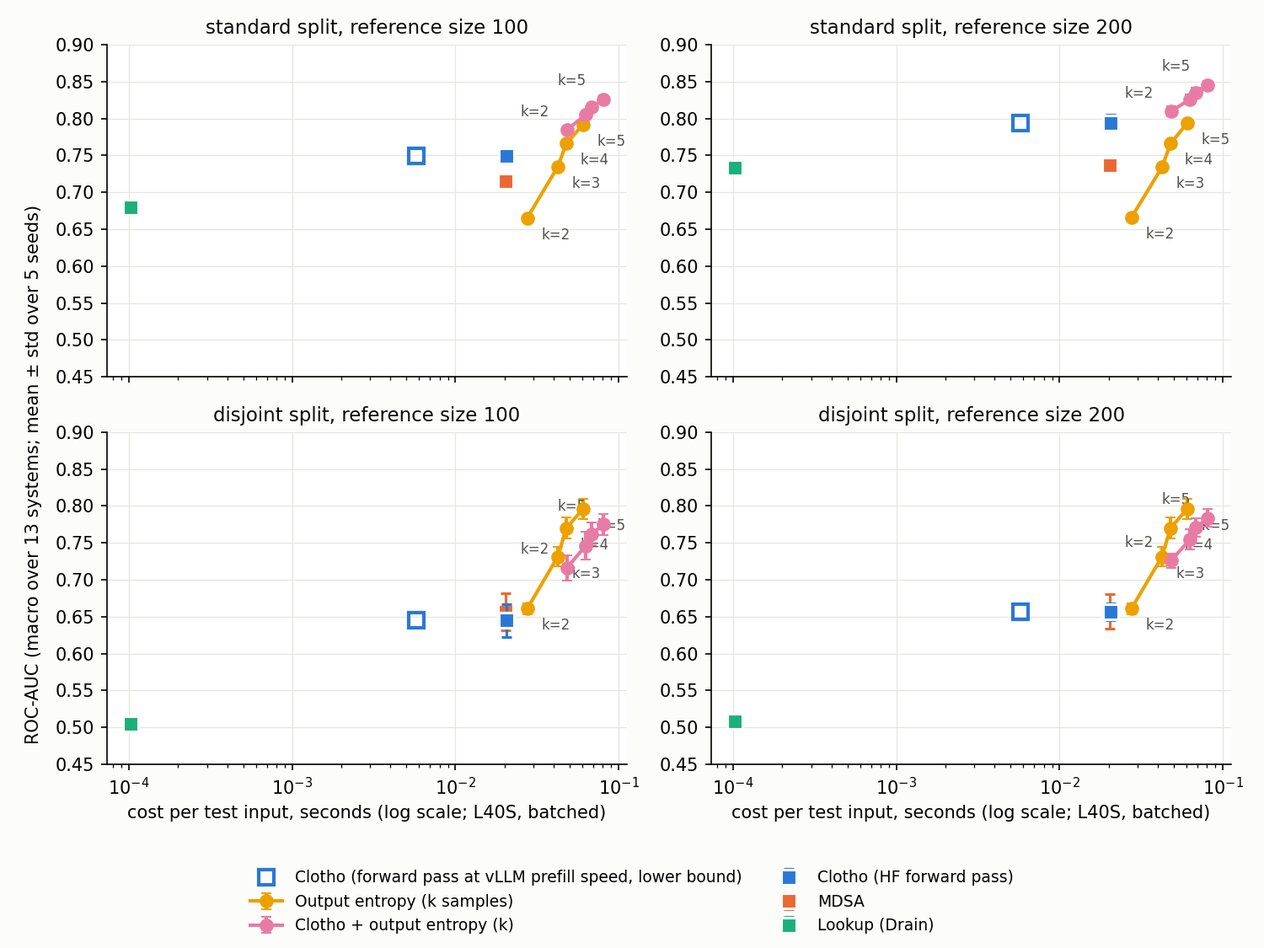
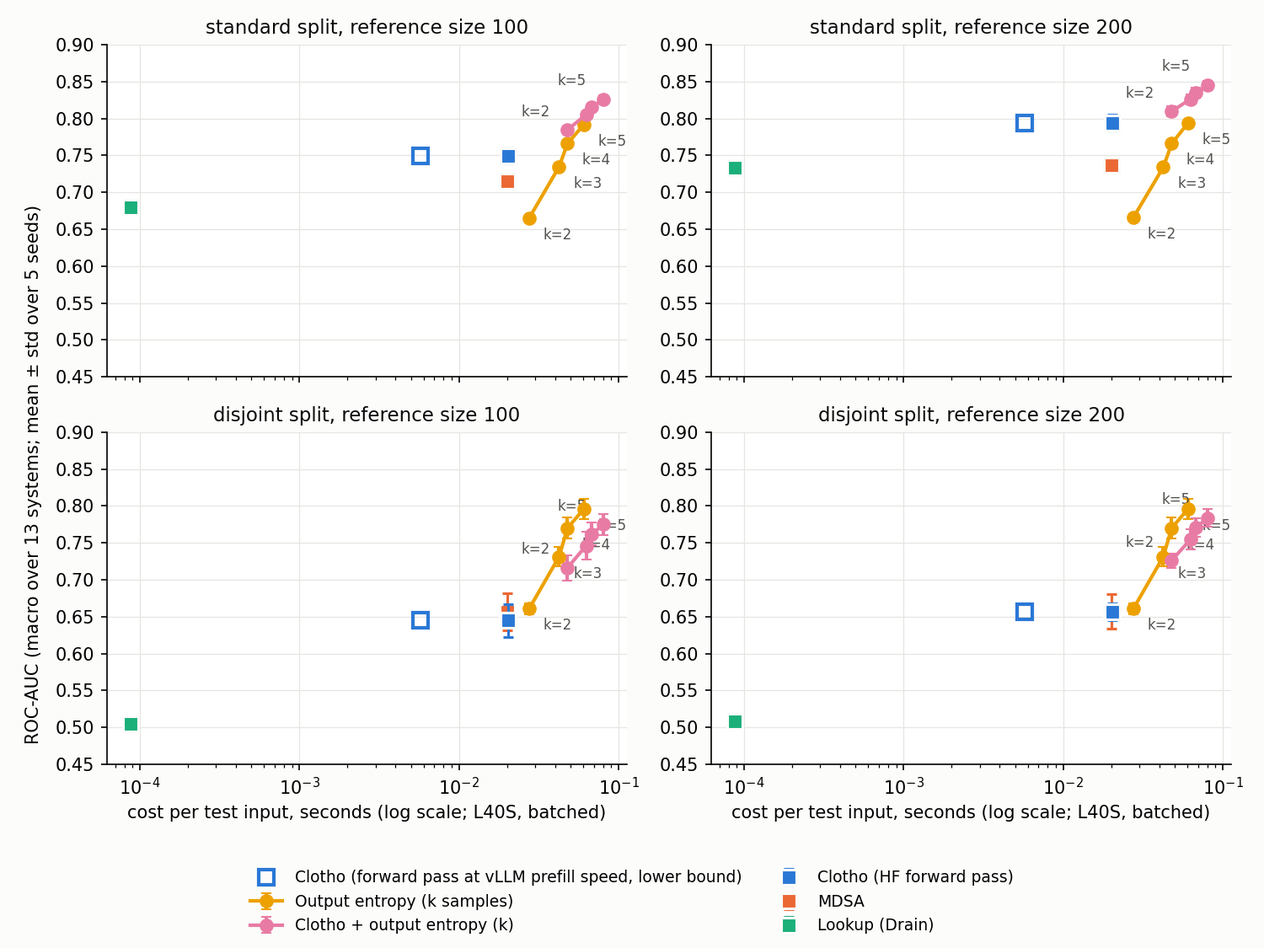
PROGRESS: session summary, 5 findings, label-noise paragraph, decisions, Next with Gemma estimate; AGENTS repo map; cost report from the idle-machine timing rerun

diff --git a/experiments/log_parsing_paper_numbers.py b/experiments/log_parsing_paper_numbers.py
@@ -38,7 +38,7 @@ READ = {
     "cost": ("Reading: output entropy needs 4 samples to match Clotho at reference size 100 on the standard split "
              "(5 samples only tie it at 200; on the template-disjoint split 2 samples already tie it and 3 beat it by "
              "about +0.08). Generating 4 samples costs "
-             "2.3x Clotho's batched HF forward pass, 8.3x a vLLM prefill (the same engine), and 35x online (batch 1). "
+             "2.4x Clotho's batched HF forward pass, 8.3x a vLLM prefill (the same engine), and 36x online (batch 1). "
              "Clotho + output entropy (k=5) is the best score at about 4x Clotho's batched cost."),
     "cross": ("Reading: across systems Clotho (0.624 / 0.641, mean over pairs) and MDSA (0.634 / 0.618) are both "
               "well above chance but far below within-system (e.g. Spark -> HDFS 0.692 vs 0.873 within HDFS @200); "

diff --git a/PROGRESS.md b/PROGRESS.md
@@ -1,6 +1,19 @@
 # PROGRESS
 
-Last updated: 2026-11-07
+Last updated: 2026-11-08
+
+**Summary (2026-11-08 session): numbers for the paper.** Single source: `experiments/reports/paper_numbers.md`, generated by `experiments/log_parsing_paper_numbers.py` (main table, held-out table, fairness check, cost-quality table and plot, cross-system, leakage, label noise, natural distribution, each with its script). Main setting fair_leakfree. Every number is mean ± std over 5 seeds of the per-seed macro mean over systems. **Git push was impossible on this machine (no GitHub credentials).** Commits are local, and a bundle of `main` is in RESULTS_REPO `git_bundles/clotho_main.bundle`; see Next.
+
+Five findings that changed or were confirmed this session:
+1. Cost is Clotho's real advantage over output entropy, and it is modest offline: output entropy needs 4 samples to match Clotho on the standard split @100 (5 only tie it @200, and on the disjoint split 2 already tie it). 4 samples cost 2.4x Clotho's batched HF forward pass, 8.3x a same-engine vLLM prefill, and 36x online (batch 1) on the L40S.
+2. Changed: on naturally distributed log lines (uniform samples, 4 systems) Clotho's lead over a Drain lookup vanishes (+0.000 ± 0.021 @100, -0.012 ± 0.008 @200, vs +0.101 / +0.065 on the template-capped suites), while Clotho now beats output entropy by about 0.1 (0.899 / 0.910 vs 0.812 / 0.801).
+3. Confirmed: Clotho beats MDSA and Lookup (Drain) on the standard split on every seed, both on the 10 systems not used for layer tuning (+0.042 / +0.057 and +0.061 / +0.063) and when the baselines get random instead of Clotho-chosen reference sets (smallest per-seed gap +0.014); on the disjoint split Clotho and MDSA still tie.
+4. New: near-chance within-template AUC is mostly label noise on a small real signal. 95-99% of the reliable pass-rate variance lies between templates, and against a clean 40-sample label Clotho's within-template AUC rises from 0.555 to 0.609 @100 (ceiling 0.698), while MDSA stays at 0.557.
+5. Confirmed in code: the original Clotho protocol computes pass labels and all four post-generation metrics from the same 10 generations (`2-1_...py:170-219`, `RQ/analysis_utils.py:110-133`, `:441-521`); in our setting that leakage is worth +0.125 / +0.132 AUC for output entropy and +0.067 / +0.070 for LOHSvar.
+
+Also this session: cross-system transfer under fair_leakfree puts Clotho (0.624 / 0.641, mean over 5 pairs) level with MDSA (0.634 / 0.618; sign flips between @100 and @200), far below within-system, with both lookups at chance (`reports/log_parsing_cross_fair.md`). Qualitative examples: `reports/log_parsing_qualitative.md` (most of Clotho's top-10% misses are borderline inputs with 2 of 5 label samples correct).
+
+## Phase 3 final summary (2026-11-07)
 
 **Summary: Phase 3 final** (`experiments/reports/log_parsing_phase3_final.md`; fail-top-50 counts and per-system tables are there). Setting fair_leakfree: Clotho = paper method (balanced sampling), layer 16 for every hidden-state method, label from samples 5-9 (PASS if >= 3 of 5 strict matches), post-generation scores from samples 0-4. rules_template, strict_match, 13 systems, no disjoint split skipped. Cells: ROC-AUC, mean ± std over 5 seeds of the per-seed macro mean over systems; reference size includes the 10 initial tests.
 
@@ -21,7 +34,7 @@ Last updated: 2026-11-07
 | Hybrid | 0.757 ± 0.009 | 0.802 ± 0.009 | 0.648 ± 0.022 | 0.661 ± 0.012 |
 | Random | 0.504 ± 0.004 | 0.506 ± 0.010 | 0.502 ± 0.013 | 0.511 ± 0.019 |
 
-Leakage (fair_leaky minus fair_leakfree, standard, @100 / @200): methods that never see generations shift +0.026 / +0.014 (noisier 5-sample label). Net of that, the post-generation methods lose output entropy +0.123 / +0.140, LOHSvar +0.065 / +0.078, Sem-Ent +0.037 / +0.046, Tok-Prob +0.006 / +0.019, Tok-Ent 0.000 / +0.010.
+Leakage (fair_leaky minus fair_leakfree, standard, @100 / @200; corrected 2026-11-08 from the regenerated `log_parsing_phase3_final.md`, which the earlier line here did not match): methods that never see generations shift +0.024 / +0.021 (noisier 5-sample label). Net of that, the post-generation methods lose output entropy +0.125 / +0.132, LOHSvar +0.067 / +0.070, Sem-Ent +0.040 / +0.038, Tok-Prob +0.009 / +0.011, Tok-Ent +0.003 / +0.003.
 
 Findings (paired per-seed differences, mean ± std over 5 seeds):
 1. Clotho beats Lookup (Drain) on every seed: by +0.069 ± 0.014 / +0.061 ± 0.011 on the standard split (@100 / @200), and by +0.140 / +0.149 on the template-disjoint split, where every lookup falls to chance.
@@ -41,14 +54,35 @@ Deviations from the paper: Sem-Ent NLI runs in bf16 autocast (99.5% pairwise lab
 
 - Phase 2 setup (user decisions 2026-11-07: both prompts, all 14 systems x 500, Clotho per system): 14 suites in `clotho/dataset/log_parsing/`, `rules_template`, parser fix for literal `*` runs, scripts `run_log_parsing_all.py`, `log_parsing_initial_set.py`, `run_clotho_log_parsing.py`, `log_parsing_phase2_report.py`.
 
+- 2026-11-08 session (all stages of the paper-numbers plan): label-noise experiment finished; original-protocol leakage answered from code; baseline fairness (random reference sets); held-out table; cost vs quality with L40S timings; cross-system under fair_leakfree; qualitative examples; natural-distribution check (4 systems); paper_numbers.md. New scripts: `log_parsing_heldout.py`, `log_parsing_fairness.py`, `log_parsing_timing.py`, `log_parsing_cost_quality.py`, `log_parsing_cross_fair.py`, `log_parsing_qualitative.py`, `log_parsing_natural.py`, `log_parsing_paper_numbers.py`, `sharded/git_backup.py`.
+
 ## In progress
-- Label-noise experiment (started 2026-11-07 20:42): 40 extra samples per input, all 13 systems (`.venv-vllm/bin/python experiments/log_parsing_extra_samples.py --push`, log `logs/extra_samples.log`, ~2.5 min per system). It is resumable per system, and finished systems are uploaded to RESULTS_REPO `data/results_llama/log_parsing/extra_samples/`. When it finishes, run `cd experiments && python log_parsing_label_noise.py --push` and record the result.
-- Early evidence from the existing 10 samples: split-half (0-4 vs 5-9) agreement of per-input pass counts is r = 0.50 to 0.85 overall but about 0.0 to 0.2 within a template (HPC 0.45, OpenSSH 0.30). Most within-template label variation is sampling noise at 5 samples.
+- Nothing running.
 
 ## Next
-- Decided: no scaling to 2,000 inputs per system. The cost estimate below is kept for reference only.
-- The CPU follow-ups are done (section "Phase 3 follow-ups" below). Open question being answered by the label-noise experiment (In progress): is the near-chance within-template AUC a missing signal or label noise?
-- Write-up: the table and findings above are the Phase 3 result.
+- **Push git.** This machine had no GitHub credentials. All commits of 2026-11-08 are local, plus a bundle in RESULTS_REPO `git_bundles/clotho_main.bundle`. On the next machine: clone the fork, `hf download` the bundle from RESULTS_REPO, `git fetch <bundle> main:bundle_main && git merge --ff-only bundle_main`, then `git push` (after `gh auth login && gh auth setup-git`).
+- Write-up: `experiments/reports/paper_numbers.md` is the single source of numbers. Regenerate it with `python log_parsing_paper_numbers.py` after any rerun.
+- **Second model estimate (Stage 9, not run): google/gemma-2-9b-it, as in the Clotho paper.** Scaled from rates measured on this L40S for Llama-3.1-8B. Gemma-2-9B has 9.2 B parameters and 42 layers (vs 32); its 256 k vocabulary makes the full-vocab entropy and lm_head in post-gen about 2x heavier. Assume about 1.3x Llama time for forward/generation and 1.5-2x for post-gen.
+
+| step | Llama rate measured | Gemma estimate (13 systems x 500 + initial set) |
+|---|---|---|
+| Engineering: Gemma path in `prompt_render.py` (system prompt inlined into the user turn as `clotho/models/gemma.py:inline_system_as_user` does; `<start_of_turn>model` post-processing), HF/vLLM parity check, model switch in `log_parsing_phase3_lib`/`_final` (MODEL, initial-set dir, layer list), check vLLM Gemma-2 support (logit soft-capping) under the no-nvcc constraint | n/a | 1.5-2.5 h agent time, no GPU |
+| Model download (18.5 GB) | 16 GB in 14 s | ~1 min |
+| Initial set (10 inputs: hidden + 10 samples) | minutes | ~5 min |
+| Hidden states, 4 candidate layers (e.g. 14/21/28/35) in one pass | ~20 inputs/s (batch 1) | ~8 min |
+| gen_vllm, 10 samples | 50-75 s per 500 inputs + 45 s engine start | ~25 min |
+| Rescore + recheck the scorer/template decision (PASS rates must stay in 10-90%, Gemma may need its own system drops) | CPU | ~10 min + decision |
+| SLL | ~20 inputs/s | ~7 min (or fuse into the hidden pass) |
+| Layer tuning (HDFS, Spark, Linux; CPU) | ~10 min | ~10 min |
+| Phase 3 final jobs (fair_leakfree + fair_leaky, 260 jobs; CPU) | 390 jobs in 11 min | ~10 min |
+| Post-gen without SE | 2.1 inputs/s | ~1.3-1.7 h |
+| Semantic entropy (DeBERTa, beside post-gen) | 1.64 inputs/s beside | runs within the post-gen window (+~15 min) |
+| Follow-ups, fairness, held-out, cross, cost-quality jobs (CPU) + timing (GPU) | ~25 min + 25 min this session | ~50 min |
+| Optional: label noise, 40 extra samples | 3.7 min per system | ~1.1 h |
+| Optional: natural-distribution check (4 systems) | ~35 min this session | ~45 min |
+
+- Total: about 3.5-4 GPU-hours plus 2 h engineering for the core comparison (main table, held-out, fairness, cost-quality, cross-system). Add ~2 h for both optional parts. One 10 h session fits the core plus one optional part, including setup (3 min) and pushes. The risky item is vLLM's Gemma-2 support without FlashInfer: if it fails, generate with HF (`gen_hf`, about 10x slower: ~4 h for 10 samples), which would need a second session.
+- Decided earlier: no scaling to 2,000 inputs per system (the cost estimate is kept below for reference).
 
 ## Phase 3 follow-ups (2026-11-07): combinations, Clotho vs MDSA on disjoint, within-template AUC
 `experiments/reports/log_parsing_followups.md` (`log_parsing_followups.py`; main setting fair_leakfree, 5 seeds, CPU only, ~1.5 min). Clotho was recomputed exactly (max |diff| 0); MDSA within 4.3e-4 of the stored jobs.
@@ -128,6 +162,23 @@ Report: `experiments/reports/log_parsing_phase3_final.{md,json}`. Driver: `exper
 - "Keep current 500" means a 1,500-message extension disjoint from the current suite. The stratified sampler does not nest (a 2,000 sample would not contain today's 500), so the extension follows a different template mix. A fresh 2,000 sample is cleaner but regenerates everything.
 - Mac (626 templates) and Thunderbird (1,241) would get every template at 2,000, with ~3 and ~1.6 inputs per template. Templates would repeat in the reference set, which raises the AUC of template-based signals (see "Why Thunderbird is weak").
 
+## Decisions (2026-11-08 session: paper-numbers stages 1-9)
+- **Git push unavailable.** No GitHub credentials on this machine (no gh, SSH key or credential helper), and installing gh was blocked. Commits stay local, and after each step the whole history goes to RESULTS_REPO as a bundle (`experiments/sharded/git_backup.py` -> `git_bundles/clotho_main.bundle`). Restore: download it, then `git fetch clotho_main.bundle main:bundle_main` and fast-forward `main`. Every result file also went to RESULTS_REPO by `--push`.
+- Stage 2: the answer is from upstream `coinse/clotho` at commit `e8aed3d` (added as remote `upstream`). The RQ notebooks/analysis_utils are counted as the protocol, since they produce the paper's tables.
+- Stage 3: on the standard split a random reference set overlaps Clotho's test set. So every method in the fairness report is scored on T' = Clotho's test set minus the random reference inputs (Clotho restricted to T'), and the balanced-reference baselines are re-scored on T' too. Random reference = 10 initial tests + uniform draw from the same pool, `RandomState(seed + 7777 + ref)`. GMMb and Lookup (oracle) are included as well as MDSA and Lookup (Drain).
+- Stage 4: "main table" = the 14 fair_leakfree methods + Clotho + output entropy; no system is skipped under fair_leakfree (HPC disjoint runs under this label).
+- Stage 5: cost = offline batch cost per test input, the cheapest practical implementation of each method. Clotho/MDSA = HF forward pass through layers 1-16 only (batch 32, left padded; cosine >= 0.9995 to the stored vectors) + CPU scoring; output entropy = vLLM, all 500 prompts at once, n = k. This uses the optimised engine for generation but plain HF for Clotho, so it understates Clotho's cost advantage. Batch-1 latencies are reported beside it. Timings: mean over HDFS, Hadoop, BGL, OpenStack. One-off costs (reference labels, fitting) excluded. k = 1 left out (entropy of one sample is 0). Clotho + output entropy is shown at every k. "Matches Clotho" = smallest k whose mean AUC >= Clotho's.
+- Stage 6: Lookup (Drain) across systems uses each system's own Drain run. logparser's EventId is the md5 of the template text, so a group matches only on identical template text.
+- Stage 7: fixed before looking: seed 0, standard split, ref 100. Missed = the 5 highest-ranked failures within the top 10%. Caught = 5 drawn at random from the failures in the bottom 30%. HDFS has only 3 failures in its top 10%, so 3 are shown.
+- Stage 8: "uniformly at random from the raw logs" = uniform over log lines of `<System>_full.log_structured.csv`, excluding lines whose Content is in the current suite, with no dedup (natural repetition kept), seed 4242. Systems are skipped if < 15 PASS or < 15 FAIL. The natural suites are not registered in `supported_datasets` (Phase 3 scripts derive their system list from it).
+- Stage 1 paragraph: the noisy-label comparison is on the same systems and test sets (added as section 3 of the label-noise report).
+- The Phase 3 leakage line in this file did not match `log_parsing_phase3_final.md`, which regenerates byte-identical from the stored jobs. The line now quotes the report.
+- Timing: `log_parsing_timing.py hf` was run twice. The first run overlapped the label-noise CPU jobs and is kept as `results_phase3/timing/hf_run1_contended.json`; the reported numbers come from the second run, on an otherwise idle machine.
+
+## Label noise (2026-11-08): is near-chance within-template AUC missing signal or label noise?
+`experiments/reports/log_parsing_label_noise.md` (`log_parsing_extra_samples.py`: 40 new vLLM samples per input, engine seed 1; `log_parsing_label_noise.py`).
+Mostly label noise, on top of a small real signal. An input's pass rate is very reliable overall (40-sample reliability median 0.97), but 95-99% of that reliable variance lies between templates on 11 of 13 systems (Mac and Thunderbird trivially; HPC 0.80, OpenSSH 0.86). Within a template, even the 40-sample rate has median reliability 0.56, so the 5-sample label used for within-template AUC is mostly sampling noise. Against the clean 40-sample label, on the same 7 systems and test sets, within-template AUC rises: Clotho 0.555 -> 0.609 @100 (0.524 -> 0.571 @200), output entropy 0.529 -> 0.584, LOHSvar 0.545 -> 0.562, while MDSA stays at 0.557. A perfect predictor of the original 10-sample pass rate reaches only 0.698 within template. So Clotho does carry some within-template signal, but it is small next to the between-template signal it shares with template lookup (overall AUC 0.832 against the clean label on the same systems).
+
 ## Decisions (2026-11-07: scorer, template, dropped systems)
 
 Inputs: all 28 generations (2 templates x 14 systems x 500 inputs x 10 samples), rescored without regeneration by `experiments/log_parsing_rescore.py` (report: `experiments/reports/log_parsing_rescore.md`, also in RESULTS_REPO `reports/`).
@@ -202,6 +253,7 @@ Why Thunderbird is weak (checked 2026-11-07). Its strict failures are real model
 Clotho's GMM models passing inputs. When every input is a different event type, the passing inputs do not cluster, so separation weakens. Read high AUC on low-diversity systems partly as "this template is easy or hard" signal.
 
 ## Known issues
+- 2026-11-08 machine had no GitHub credentials and no `gh`, and installing `gh` from GitHub releases was blocked by the agent's permission classifier. The user has to run `gh auth login` (or provide credentials) before an agent session can push.
 - A fully skipped `gen_vllm` run still runs the parity check and loads the vLLM engine (~45 s) before noticing nothing is pending.
 - RESULTS_REPO has extra verification shards under `.../size200/` (spell_check, shards 0 and 1). Harmless.
 - New machine needs `gh auth login` then `gh auth setup-git` before git push works.

diff --git a/experiments/reports/paper_numbers.md b/experiments/reports/paper_numbers.md
@@ -96,24 +96,24 @@ Scripts: `log_parsing_timing.py hf|vllm` (timings, `results_phase3/timing/`), `l
 
 | method | s / input (batched) | s / input (batch 1) | standard @100 | standard @200 | disjoint @100 | disjoint @200 |
 |---|---|---|---|---|---|---|
-| Clotho | 0.0206 | 0.0420 | 0.749 ± 0.010 | 0.794 ± 0.011 | 0.645 ± 0.022 | 0.657 ± 0.012 |
+| Clotho | 0.0202 | 0.0414 | 0.749 ± 0.010 | 0.794 ± 0.011 | 0.645 ± 0.022 | 0.657 ± 0.012 |
 | Clotho, forward pass at vLLM prefill speed (lower bound) | 0.0058 | n/a | 0.749 ± 0.010 | 0.794 ± 0.011 | 0.645 ± 0.022 | 0.657 ± 0.012 |
-| MDSA | 0.0203 | 0.0417 | 0.715 ± 0.008 | 0.737 ± 0.006 | 0.656 ± 0.025 | 0.657 ± 0.023 |
+| MDSA | 0.0200 | 0.0411 | 0.715 ± 0.008 | 0.737 ± 0.006 | 0.656 ± 0.025 | 0.657 ± 0.023 |
 | Lookup (Drain) | 0.0001 | 0.0001 | 0.680 ± 0.006 | 0.733 ± 0.005 | 0.505 ± 0.005 | 0.508 ± 0.003 |
 | Output entropy, k=2 | 0.0275 | 1.3200 | 0.665 ± 0.002 | 0.666 ± 0.004 | 0.661 ± 0.008 | 0.661 ± 0.008 |
 | Output entropy, k=3 | 0.0424 | 1.4315 | 0.734 ± 0.002 | 0.734 ± 0.003 | 0.731 ± 0.013 | 0.731 ± 0.013 |
 | Output entropy, k=4 | 0.0478 | 1.4711 | 0.766 ± 0.001 | 0.766 ± 0.005 | 0.770 ± 0.014 | 0.770 ± 0.014 |
 | Output entropy, k=5 | 0.0604 | 1.5502 | 0.792 ± 0.001 | 0.794 ± 0.005 | 0.796 ± 0.014 | 0.796 ± 0.014 |
-| Clotho + output entropy, k=2 | 0.0481 | 1.3620 | 0.784 ± 0.005 | 0.810 ± 0.007 | 0.716 ± 0.017 | 0.726 ± 0.010 |
-| Clotho + output entropy, k=3 | 0.0630 | 1.4735 | 0.805 ± 0.005 | 0.826 ± 0.007 | 0.746 ± 0.019 | 0.754 ± 0.014 |
-| Clotho + output entropy, k=4 | 0.0684 | 1.5131 | 0.815 ± 0.005 | 0.835 ± 0.007 | 0.762 ± 0.015 | 0.771 ± 0.013 |
-| Clotho + output entropy, k=5 | 0.0810 | 1.5922 | 0.826 ± 0.005 | 0.845 ± 0.006 | 0.775 ± 0.014 | 0.784 ± 0.012 |
+| Clotho + output entropy, k=2 | 0.0477 | 1.3614 | 0.784 ± 0.005 | 0.810 ± 0.007 | 0.716 ± 0.017 | 0.726 ± 0.010 |
+| Clotho + output entropy, k=3 | 0.0626 | 1.4729 | 0.805 ± 0.005 | 0.826 ± 0.007 | 0.746 ± 0.019 | 0.754 ± 0.014 |
+| Clotho + output entropy, k=4 | 0.0680 | 1.5126 | 0.815 ± 0.005 | 0.835 ± 0.007 | 0.762 ± 0.015 | 0.771 ± 0.013 |
+| Clotho + output entropy, k=5 | 0.0806 | 1.5916 | 0.826 ± 0.005 | 0.845 ± 0.006 | 0.775 ± 0.014 | 0.784 ± 0.012 |
 
 (k = 1 gives AUC 0.5: one sample has entropy 0.) Mean generated tokens per sample: k=2: 51, k=3: 51, k=4: 51, k=5: 51.
 
-Timing components (s / input, mean over HDFS, Hadoop, BGL, OpenStack): HF forward pass, layers 1-16, batch 32: 0.0201; the extraction pipeline used for the results (all layers, batch 1): 0.0415; vLLM prefill only (max_tokens=1, lower bound for a forward pass): 0.0052; PCA+GMM scoring: 0.00052; PCA+MDSA: 0.00024. Batched layer-16 vectors match the stored ones (min cosine 0.9996).
+Timing components (s / input, mean over HDFS, Hadoop, BGL, OpenStack): HF forward pass, layers 1-16, batch 32: 0.0197; the extraction pipeline used for the results (all layers, batch 1): 0.0409; vLLM prefill only (max_tokens=1, lower bound for a forward pass): 0.0052; PCA+GMM scoring: 0.00053; PCA+MDSA: 0.00027. Batched layer-16 vectors match the stored ones (min cosine 0.9996).
 
-Cost ratios, output entropy(k) over Clotho: batched with Clotho on HF k=2: 1.3x, k=3: 2.1x, k=4: 2.3x, k=5: 2.9x; batched with Clotho at vLLM prefill speed (same engine) k=2: 4.8x, k=3: 7.4x, k=4: 8.3x, k=5: 10.5x; batch 1 (online) k=2: 31x, k=3: 34x, k=4: 35x, k=5: 37x.
+Cost ratios, output entropy(k) over Clotho: batched with Clotho on HF k=2: 1.4x, k=3: 2.1x, k=4: 2.4x, k=5: 3.0x; batched with Clotho at vLLM prefill speed (same engine) k=2: 4.8x, k=3: 7.3x, k=4: 8.3x, k=5: 10.5x; batch 1 (online) k=2: 32x, k=3: 35x, k=4: 36x, k=5: 37x.
 
 ### Paired per-seed differences: output entropy(k) minus Clotho
 
@@ -126,7 +126,7 @@ Cost ratios, output entropy(k) over Clotho: batched with Clotho on HF k=2: 1.3x,
 
 Smallest k with mean output-entropy AUC >= Clotho: standard @100: 4, standard @200: > 5, disjoint @100: 2, disjoint @200: 2.
 
-Reading: output entropy needs 4 samples to match Clotho at reference size 100 on the standard split (5 samples only tie it at 200; on the template-disjoint split 2 samples already tie it and 3 beat it by about +0.08). Generating 4 samples costs 2.3x Clotho's batched HF forward pass, 8.3x a vLLM prefill (the same engine), and 35x online (batch 1). Clotho + output entropy (k=5) is the best score at about 4x Clotho's batched cost.
+Reading: output entropy needs 4 samples to match Clotho at reference size 100 on the standard split (5 samples only tie it at 200; on the template-disjoint split 2 samples already tie it and 3 beat it by about +0.08). Generating 4 samples costs 2.4x Clotho's batched HF forward pass, 8.3x a vLLM prefill (the same engine), and 36x online (batch 1). Clotho + output entropy (k=5) is the best score at about 4x Clotho's batched cost.
 
 ## 5. Cross-system transfer (fair_leakfree; reference set from A, test = all of B)
 

diff --git a/experiments/reports/log_parsing_cost_quality.md b/experiments/reports/log_parsing_cost_quality.md
@@ -4,24 +4,24 @@ Generated by `experiments/log_parsing_cost_quality.py` (protocol in its docstrin
 
 | method | s / input (batched) | s / input (batch 1) | standard @100 | standard @200 | disjoint @100 | disjoint @200 |
 |---|---|---|---|---|---|---|
-| Clotho | 0.0206 | 0.0420 | 0.749 ± 0.010 | 0.794 ± 0.011 | 0.645 ± 0.022 | 0.657 ± 0.012 |
+| Clotho | 0.0202 | 0.0414 | 0.749 ± 0.010 | 0.794 ± 0.011 | 0.645 ± 0.022 | 0.657 ± 0.012 |
 | Clotho, forward pass at vLLM prefill speed (lower bound) | 0.0058 | n/a | 0.749 ± 0.010 | 0.794 ± 0.011 | 0.645 ± 0.022 | 0.657 ± 0.012 |
-| MDSA | 0.0203 | 0.0417 | 0.715 ± 0.008 | 0.737 ± 0.006 | 0.656 ± 0.025 | 0.657 ± 0.023 |
+| MDSA | 0.0200 | 0.0411 | 0.715 ± 0.008 | 0.737 ± 0.006 | 0.656 ± 0.025 | 0.657 ± 0.023 |
 | Lookup (Drain) | 0.0001 | 0.0001 | 0.680 ± 0.006 | 0.733 ± 0.005 | 0.505 ± 0.005 | 0.508 ± 0.003 |
 | Output entropy, k=2 | 0.0275 | 1.3200 | 0.665 ± 0.002 | 0.666 ± 0.004 | 0.661 ± 0.008 | 0.661 ± 0.008 |
 | Output entropy, k=3 | 0.0424 | 1.4315 | 0.734 ± 0.002 | 0.734 ± 0.003 | 0.731 ± 0.013 | 0.731 ± 0.013 |
 | Output entropy, k=4 | 0.0478 | 1.4711 | 0.766 ± 0.001 | 0.766 ± 0.005 | 0.770 ± 0.014 | 0.770 ± 0.014 |
 | Output entropy, k=5 | 0.0604 | 1.5502 | 0.792 ± 0.001 | 0.794 ± 0.005 | 0.796 ± 0.014 | 0.796 ± 0.014 |
-| Clotho + output entropy, k=2 | 0.0481 | 1.3620 | 0.784 ± 0.005 | 0.810 ± 0.007 | 0.716 ± 0.017 | 0.726 ± 0.010 |
-| Clotho + output entropy, k=3 | 0.0630 | 1.4735 | 0.805 ± 0.005 | 0.826 ± 0.007 | 0.746 ± 0.019 | 0.754 ± 0.014 |
-| Clotho + output entropy, k=4 | 0.0684 | 1.5131 | 0.815 ± 0.005 | 0.835 ± 0.007 | 0.762 ± 0.015 | 0.771 ± 0.013 |
-| Clotho + output entropy, k=5 | 0.0810 | 1.5922 | 0.826 ± 0.005 | 0.845 ± 0.006 | 0.775 ± 0.014 | 0.784 ± 0.012 |
+| Clotho + output entropy, k=2 | 0.0477 | 1.3614 | 0.784 ± 0.005 | 0.810 ± 0.007 | 0.716 ± 0.017 | 0.726 ± 0.010 |
+| Clotho + output entropy, k=3 | 0.0626 | 1.4729 | 0.805 ± 0.005 | 0.826 ± 0.007 | 0.746 ± 0.019 | 0.754 ± 0.014 |
+| Clotho + output entropy, k=4 | 0.0680 | 1.5126 | 0.815 ± 0.005 | 0.835 ± 0.007 | 0.762 ± 0.015 | 0.771 ± 0.013 |
+| Clotho + output entropy, k=5 | 0.0806 | 1.5916 | 0.826 ± 0.005 | 0.845 ± 0.006 | 0.775 ± 0.014 | 0.784 ± 0.012 |
 
 (k = 1 gives AUC 0.5: one sample has entropy 0.) Mean generated tokens per sample: k=2: 51, k=3: 51, k=4: 51, k=5: 51.
 
-Timing components (s / input, mean over HDFS, Hadoop, BGL, OpenStack): HF forward pass, layers 1-16, batch 32: 0.0201; the extraction pipeline used for the results (all layers, batch 1): 0.0415; vLLM prefill only (max_tokens=1, lower bound for a forward pass): 0.0052; PCA+GMM scoring: 0.00052; PCA+MDSA: 0.00024. Batched layer-16 vectors match the stored ones (min cosine 0.9996).
+Timing components (s / input, mean over HDFS, Hadoop, BGL, OpenStack): HF forward pass, layers 1-16, batch 32: 0.0197; the extraction pipeline used for the results (all layers, batch 1): 0.0409; vLLM prefill only (max_tokens=1, lower bound for a forward pass): 0.0052; PCA+GMM scoring: 0.00053; PCA+MDSA: 0.00027. Batched layer-16 vectors match the stored ones (min cosine 0.9996).
 
-Cost ratios, output entropy(k) over Clotho: batched with Clotho on HF k=2: 1.3x, k=3: 2.1x, k=4: 2.3x, k=5: 2.9x; batched with Clotho at vLLM prefill speed (same engine) k=2: 4.8x, k=3: 7.4x, k=4: 8.3x, k=5: 10.5x; batch 1 (online) k=2: 31x, k=3: 34x, k=4: 35x, k=5: 37x.
+Cost ratios, output entropy(k) over Clotho: batched with Clotho on HF k=2: 1.4x, k=3: 2.1x, k=4: 2.4x, k=5: 3.0x; batched with Clotho at vLLM prefill speed (same engine) k=2: 4.8x, k=3: 7.3x, k=4: 8.3x, k=5: 10.5x; batch 1 (online) k=2: 32x, k=3: 35x, k=4: 36x, k=5: 37x.
 
 ## Paired per-seed differences: output entropy(k) minus Clotho
 

diff --git a/AGENTS.md b/AGENTS.md
@@ -58,6 +58,11 @@ python experiments/sharded/run_sharded.py --stage hidden -t <task> -d <dataset> 
 | `experiments/log_parsing_followups.py` | Score combinations, per-system Clotho vs MDSA on disjoint splits, within-template AUC |
 | `experiments/log_parsing_prompt_compare.py` | messages_template vs rules_template with 5 seeds |
 | `experiments/log_parsing_extra_samples.py`, `experiments/log_parsing_label_noise.py` | 40 extra vLLM samples per input (seed 1, `.venv-vllm`) and the label-noise vs within-template-signal analysis |
+| `experiments/log_parsing_heldout.py`, `log_parsing_fairness.py`, `log_parsing_cross_fair.py`, `log_parsing_qualitative.py` | 2026-11-08: held-out table (10 non-tuning systems), baselines with random reference sets, cross-system under fair_leakfree, qualitative examples |
+| `experiments/log_parsing_timing.py` (`hf` in `.venv`, `vllm` in `.venv-vllm`), `log_parsing_cost_quality.py` | Wall-clock per input on the L40S; output entropy from k samples vs Clotho (table + plot) |
+| `experiments/log_parsing_natural.py` | Natural-distribution check: uniform raw-line samples (`loghub_<sys>_nat500`, deliberately not registered in `supported_datasets`), gen, eval |
+| `experiments/log_parsing_paper_numbers.py` | Builds `reports/paper_numbers.md`, the single source of numbers for the paper |
+| `experiments/sharded/git_backup.py` | Uploads a git bundle of `main` to RESULTS_REPO `git_bundles/` when `git push` has no credentials |
 | `AGENTS.md`, `CLAUDE.md`, `PROGRESS.md` | Agent memory |
 
 RESULTS_REPO layout: `shards/<model>/<task>/<dataset>/<template>/<stage>/size<N>/shard_XXXXX/`, merged files under `data/`, Clotho outputs under `results_clotho/` and `results_clotho_log_parsing/`, Phase 3 per-job JSON under `results_phase3/`, reports under `reports/`. Precalculated scores (SLL, post-generation, Drain groups) under `data/results_llama/log_parsing/precalculated_metrics/`; extra samples under `data/results_llama/log_parsing/extra_samples/`.
